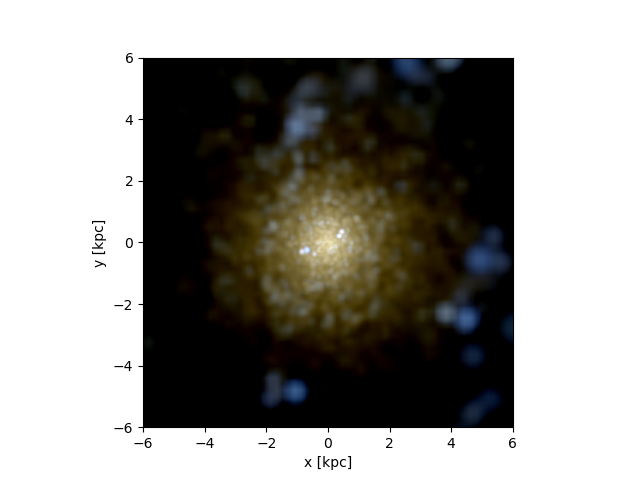
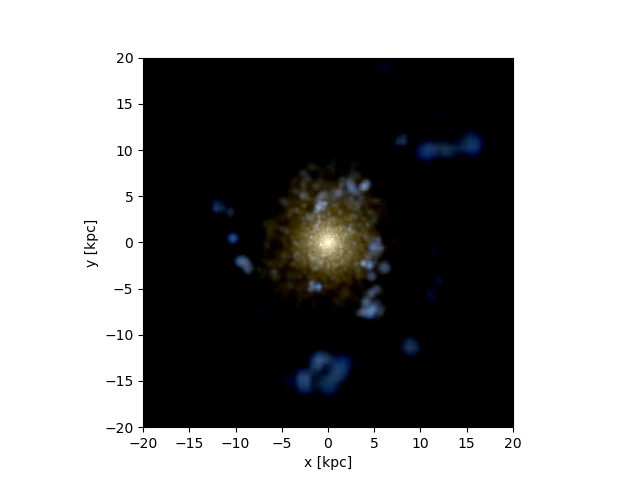
axis updated

diff --git a/r330/galaxy330_stars.py b/r330/galaxy330_stars.py
@@ -10,10 +10,12 @@ s=pynbody.load('/mnt/data0/jillian/gguaman/r330/cosmo25p.768sg1bwK1BHe75.007779'
 s.physical_units()
 
 #centering halo
-pynbody.analysis.angmom.faceon(s)
+#pynbody.analysis.angmom.faceon(s)
+pynbody.analysis.angmom.sideon(s)
 
 #creating image using default bands(i,v,u)
-pynbody.plot.stars.render(s,width='12 kpc')
+pynbody.plot.stars.render(s,width='40 kpc')
 
 #plt.show()
-plt.savefig("galaxy330_stars.png")
+#plt.savefig("galaxy330_stars.png")
+plt.savefig("galaxy330_stars(side).png")
